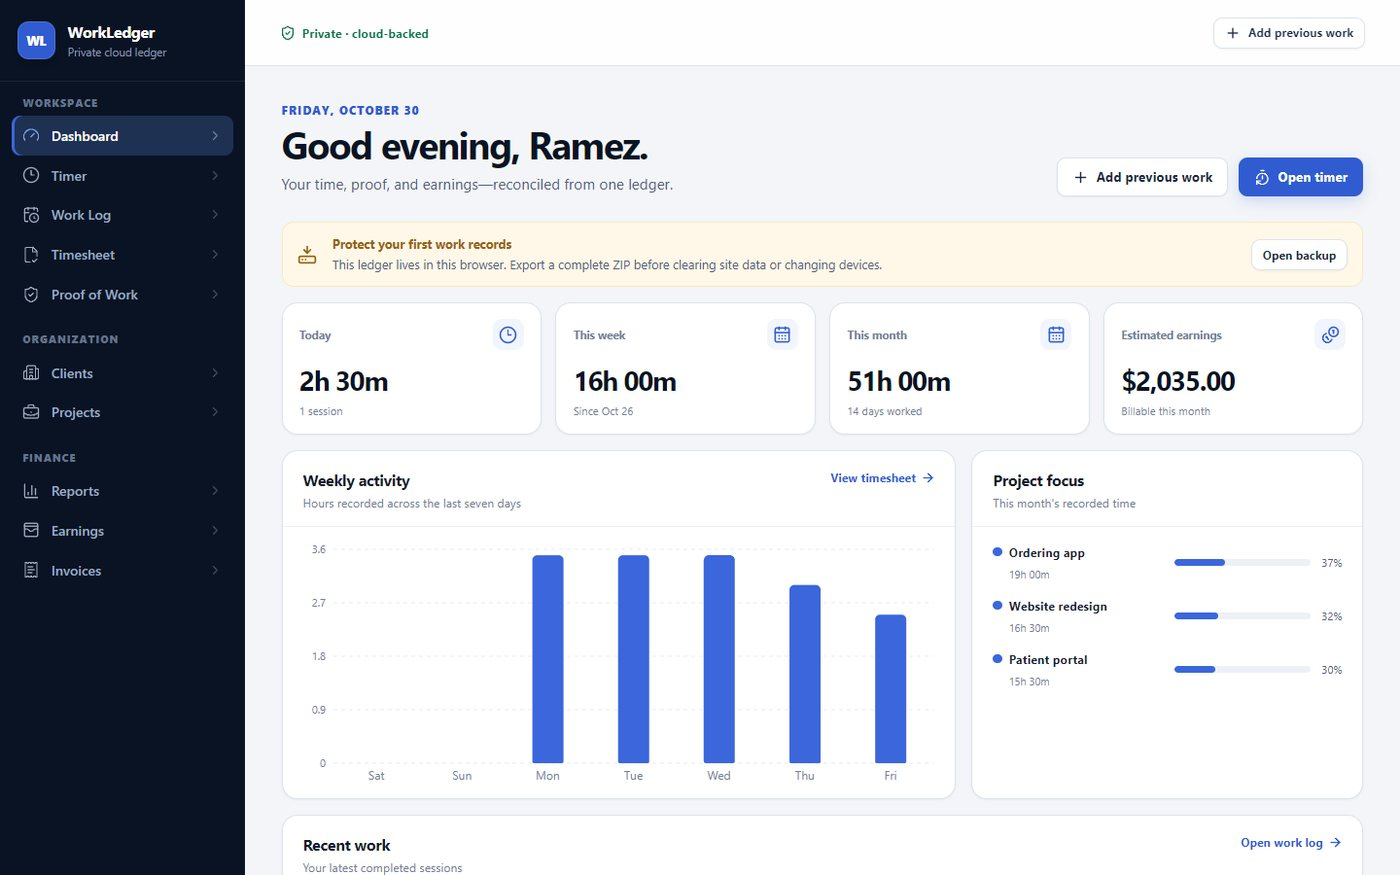
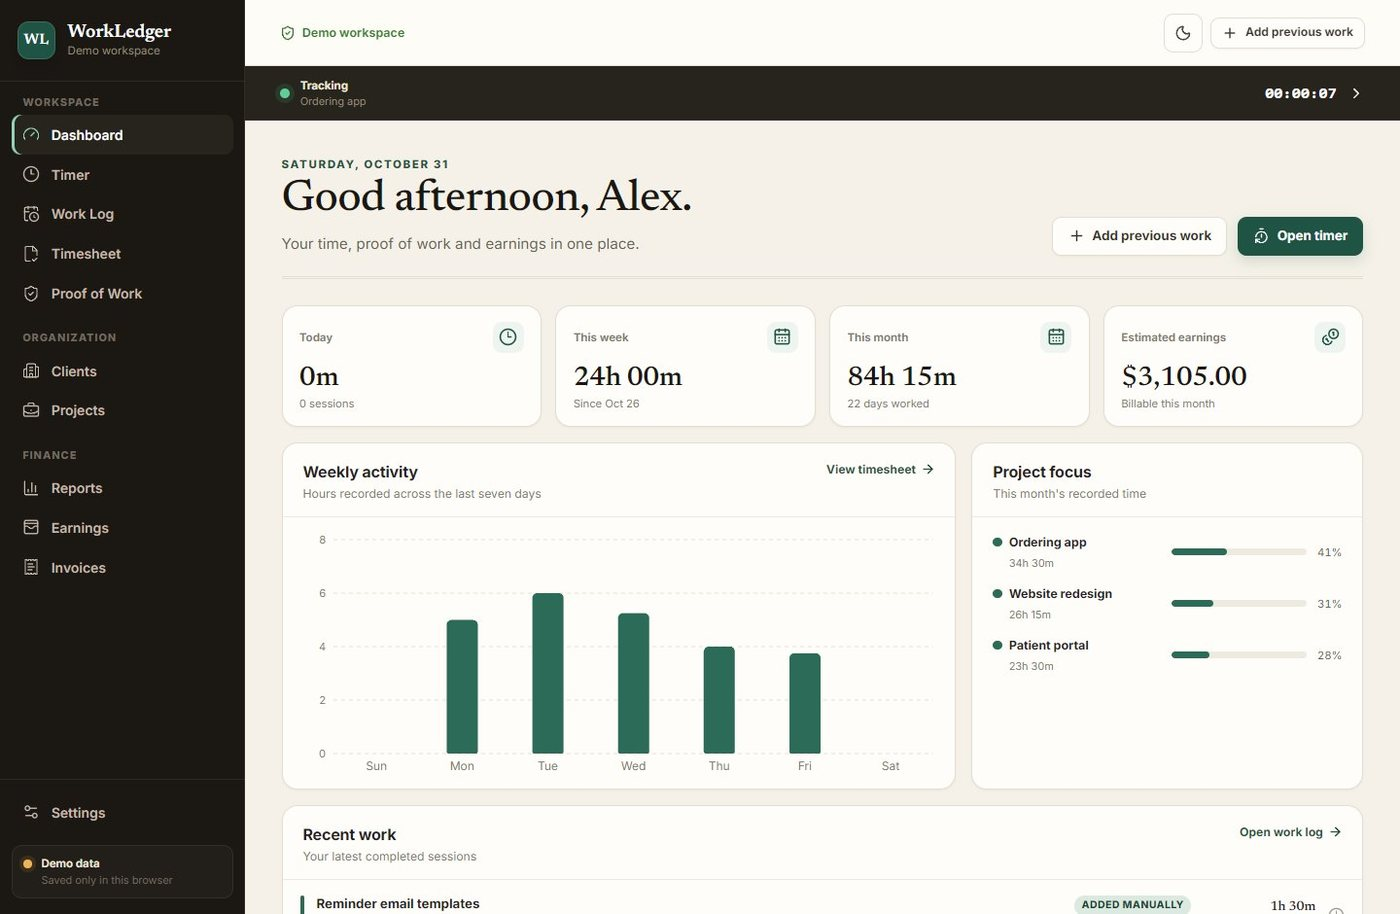
Show the redesigned WorkLedger and link its live demo

diff --git a/case-workledger.html b/case-workledger.html
@@ -101,7 +101,7 @@
       <div class="menu-side">
         <div class="menu-preview" aria-hidden="true" data-menu-preview>
           <div class="preview preview-photo" data-preview-pane="home"><img src="assets/portrait-cutout.png" alt="" width="460" height="460" loading="lazy"></div>
-          <div class="preview preview-shot" data-preview-pane="work"><img src="assets/work/workledger-full.jpg" alt="" width="900" height="1935" loading="lazy"></div>
+          <div class="preview preview-shot" data-preview-pane="work"><img src="assets/work/workledger-full.jpg" alt="" width="900" height="832" loading="lazy"></div>
           <div class="preview preview-name" data-preview-pane="about"><span lang="ar">رامز</span></div>
           <div class="preview preview-clock" data-preview-pane="contact"><span data-preview-time>Cairo</span><small data-i18n="menu.city">Egypt</small></div>
         </div>
@@ -153,6 +153,7 @@
           <div><dt data-i18n="cs.role">Role</dt><dd data-i18n="wl.role">Product and development</dd></div>
           <div><dt data-i18n="cs.year">Year</dt><dd>2026</dd></div>
           <div><dt data-i18n="cs.stack">Stack</dt><dd>React, TypeScript, Vite, Cloudflare D1, R2</dd></div>
+          <div><dt data-i18n="cs.demo">Demo</dt><dd><a class="text-link" href="https://ramezgamel01.github.io/workledger/" data-i18n="cs.demo.link">Try it live</a></dd></div>
           <div><dt data-i18n="cs.code">Code</dt><dd><a class="text-link" href="https://github.com/ramezGamel01/workledger">GitHub</a></dd></div>
         </dl>
       </div>
@@ -161,7 +162,7 @@
     <section class="case-cover-wrap">
       <div class="container">
         <figure class="case-cover" data-reveal>
-          <img src="assets/case/workledger-dashboard.jpg" alt="WorkLedger dashboard with hours for today, this week and this month, estimated earnings, a weekly chart and recent work" data-i18n-attr="alt:wl.cover.alt" width="1400" height="875">
+          <img src="assets/case/workledger-dashboard.jpg" alt="WorkLedger dashboard with hours for today, this week and this month, estimated earnings, a weekly chart and recent work" data-i18n-attr="alt:wl.cover.alt" width="1400" height="914">
         </figure>
       </div>
     </section>
@@ -235,15 +236,15 @@
           <section class="case-section" id="screens">
             <h2 data-i18n="cs.h.screens">Screens</h2>
             <figure class="case-shot" data-reveal>
-              <img src="assets/case/workledger-earnings.jpg" alt="Earnings page with a trend chart and totals per project" data-i18n-attr="alt:wl.shot.1.alt" width="1400" height="1159" loading="lazy">
-              <figcaption data-i18n="wl.shot.1">Earnings reconcile per project, down to the sessions behind each total.</figcaption>
+              <img src="assets/case/workledger-earnings.jpg" alt="Earnings page with a bar chart of daily earnings and totals per project" data-i18n-attr="alt:wl.shot.1.alt" width="1400" height="914" loading="lazy">
+              <figcaption data-i18n="wl.shot.1">Earnings per day and per project, compared with the previous period.</figcaption>
             </figure>
             <figure class="case-shot" data-reveal>
-              <img src="assets/case/workledger-timesheet.jpg" alt="Timesheet listing sessions by date with their project, duration and earnings" data-i18n-attr="alt:wl.shot.2.alt" width="1400" height="875" loading="lazy">
+              <img src="assets/case/workledger-timesheet.jpg" alt="Timesheet listing sessions by date with their project, duration and earnings" data-i18n-attr="alt:wl.shot.2.alt" width="1400" height="914" loading="lazy">
               <figcaption data-i18n="wl.shot.2">The timesheet filters by date and project, with totals for the range.</figcaption>
             </figure>
             <figure class="case-shot" data-reveal>
-              <img src="assets/case/workledger-invoices.jpg" alt="Invoices page with an issued, locked invoice" data-i18n-attr="alt:wl.shot.3.alt" width="1400" height="544" loading="lazy">
+              <img src="assets/case/workledger-invoices.jpg" alt="Invoices page with an issued, locked invoice" data-i18n-attr="alt:wl.shot.3.alt" width="1400" height="583" loading="lazy">
               <figcaption data-i18n="wl.shot.3">An issued invoice is locked. Its PDF can be regenerated at any time.</figcaption>
             </figure>
             <p class="case-note" data-i18n="cs.sample">Screens show sample data.</p>

diff --git a/i18n.js b/i18n.js
@@ -98,6 +98,7 @@ window.I18N = {
     "copied": "تم النسخ",
     "copy.fail": "اضغط Ctrl+C",
     "card.live": "الموقع المباشر",
+    "card.demo": "تجربة مباشرة",
     "card.code": "الكود المصدري",
 
     /* Home */
@@ -293,6 +294,8 @@ window.I18N = {
     "cs.year": "السنة",
     "cs.stack": "التقنيات",
     "cs.code": "الشيفرة",
+    "cs.demo": "تجربة",
+    "cs.demo.link": "جرّبه مباشرة",
     "cs.langs": "اللغات",
     "cs.tools": "الأدوات",
     "cs.h.problem": "المشكلة",
@@ -333,8 +336,8 @@ window.I18N = {
     "wl.dec.4.d": "الجلسة المتتبَّعة قائمة من مقاطع بداية وتوقف، لا عدّاد يعمل باستمرار. الإيقاف المؤقت دقيق، وإغلاق التبويب لا يضيّع الوقت.",
     "wl.dec.5.t": "محلي أولًا، ثم السحابة",
     "wl.dec.5.d": "احتفظ الإصدار الأول بكل شيء في المتصفح مع نسخ احتياطية صريحة. وعندما احتجت إلى السجل نفسه على كل أجهزتي، أضاف الإصدار السحابي D1 وR2، وبقيت IndexedDB شبكة أمان عند انقطاع الاتصال.",
-    "wl.shot.1": "تتطابق الأرباح لكل مشروع، وصولًا إلى الجلسات التي تقف خلف كل إجمالي.",
-    "wl.shot.1.alt": "صفحة الأرباح مع مخطط للاتجاه وإجماليات لكل مشروع",
+    "wl.shot.1": "الأرباح لكل يوم ولكل مشروع، مع مقارنة بالفترة السابقة.",
+    "wl.shot.1.alt": "صفحة الأرباح مع مخطط أعمدة للأرباح اليومية وإجماليات لكل مشروع",
     "wl.shot.2": "يُصفّى جدول الساعات حسب التاريخ والمشروع، مع إجماليات الفترة.",
     "wl.shot.2.alt": "جدول الساعات يعرض الجلسات حسب التاريخ مع المشروع والمدة والأرباح",
     "wl.shot.3": "الفاتورة الصادرة مقفلة، ويمكن إعادة إنشاء ملف PDF الخاص بها في أي وقت.",

diff --git a/work.html b/work.html
@@ -99,7 +99,7 @@
       <div class="menu-side">
         <div class="menu-preview" aria-hidden="true" data-menu-preview>
           <div class="preview preview-photo" data-preview-pane="home"><img src="assets/portrait-cutout.png" alt="" width="460" height="460" loading="lazy"></div>
-          <div class="preview preview-shot" data-preview-pane="work"><img src="assets/work/workledger-full.jpg" alt="" width="900" height="1935" loading="lazy"></div>
+          <div class="preview preview-shot" data-preview-pane="work"><img src="assets/work/workledger-full.jpg" alt="" width="900" height="832" loading="lazy"></div>
           <div class="preview preview-name" data-preview-pane="about"><span lang="ar">رامز</span></div>
           <div class="preview preview-clock" data-preview-pane="contact"><span data-preview-time>Cairo</span><small data-i18n="menu.city">Egypt</small></div>
         </div>
@@ -170,12 +170,13 @@
                 <li data-i18n="ledger.f4.t">Sync and backup</li>
               </ul>
               <p class="card-links">
+                <a href="https://ramezgamel01.github.io/workledger/"><span data-i18n="card.demo">Live demo</span><svg class="i-arrow" aria-hidden="true"><use href="#i-arrow"/></svg></a>
                 <a href="case-workledger.html"><span data-i18n="card.case">Case study</span><svg class="i-arrow" aria-hidden="true"><use href="#i-arrow"/></svg></a>
                 <a href="https://github.com/ramezGamel01/workledger"><span data-i18n="card.code">Source code</span><svg class="i-arrow" aria-hidden="true"><use href="#i-arrow"/></svg></a>
               </p>
             </div>
             <a class="card-shot is-long" href="case-workledger.html" tabindex="-1" aria-hidden="true" style="--scroll-dur:7s">
-              <img src="assets/work/workledger-full.jpg" alt="" width="900" height="1935" loading="lazy">
+              <img src="assets/work/workledger-full.jpg" alt="" width="900" height="832" loading="lazy">
             </a>
           </article>
 

diff --git a/404.html b/404.html
@@ -106,7 +106,7 @@
       <div class="menu-side">
         <div class="menu-preview" aria-hidden="true" data-menu-preview>
           <div class="preview preview-photo" data-preview-pane="home"><img src="assets/portrait-cutout.png" alt="" width="460" height="460" loading="lazy"></div>
-          <div class="preview preview-shot" data-preview-pane="work"><img src="assets/work/workledger-full.jpg" alt="" width="900" height="1935" loading="lazy"></div>
+          <div class="preview preview-shot" data-preview-pane="work"><img src="assets/work/workledger-full.jpg" alt="" width="900" height="832" loading="lazy"></div>
           <div class="preview preview-name" data-preview-pane="about"><span lang="ar">رامز</span></div>
           <div class="preview preview-clock" data-preview-pane="contact"><span data-preview-time>Cairo</span><small data-i18n="menu.city">Egypt</small></div>
         </div>

diff --git a/about.html b/about.html
@@ -101,7 +101,7 @@
       <div class="menu-side">
         <div class="menu-preview" aria-hidden="true" data-menu-preview>
           <div class="preview preview-photo" data-preview-pane="home"><img src="assets/portrait-cutout.png" alt="" width="460" height="460" loading="lazy"></div>
-          <div class="preview preview-shot" data-preview-pane="work"><img src="assets/work/workledger-full.jpg" alt="" width="900" height="1935" loading="lazy"></div>
+          <div class="preview preview-shot" data-preview-pane="work"><img src="assets/work/workledger-full.jpg" alt="" width="900" height="832" loading="lazy"></div>
           <div class="preview preview-name" data-preview-pane="about"><span lang="ar">رامز</span></div>
           <div class="preview preview-clock" data-preview-pane="contact"><span data-preview-time>Cairo</span><small data-i18n="menu.city">Egypt</small></div>
         </div>

diff --git a/case-fuzzing.html b/case-fuzzing.html
@@ -101,7 +101,7 @@
       <div class="menu-side">
         <div class="menu-preview" aria-hidden="true" data-menu-preview>
           <div class="preview preview-photo" data-preview-pane="home"><img src="assets/portrait-cutout.png" alt="" width="460" height="460" loading="lazy"></div>
-          <div class="preview preview-shot" data-preview-pane="work"><img src="assets/work/workledger-full.jpg" alt="" width="900" height="1935" loading="lazy"></div>
+          <div class="preview preview-shot" data-preview-pane="work"><img src="assets/work/workledger-full.jpg" alt="" width="900" height="832" loading="lazy"></div>
           <div class="preview preview-name" data-preview-pane="about"><span lang="ar">رامز</span></div>
           <div class="preview preview-clock" data-preview-pane="contact"><span data-preview-time>Cairo</span><small data-i18n="menu.city">Egypt</small></div>
         </div>

diff --git a/index.html b/index.html
@@ -114,7 +114,7 @@
       <div class="menu-side">
         <div class="menu-preview" aria-hidden="true" data-menu-preview>
           <div class="preview preview-photo" data-preview-pane="home"><img src="assets/portrait-cutout.png" alt="" width="460" height="460" loading="lazy"></div>
-          <div class="preview preview-shot" data-preview-pane="work"><img src="assets/work/workledger-full.jpg" alt="" width="900" height="1935" loading="lazy"></div>
+          <div class="preview preview-shot" data-preview-pane="work"><img src="assets/work/workledger-full.jpg" alt="" width="900" height="832" loading="lazy"></div>
           <div class="preview preview-name" data-preview-pane="about"><span lang="ar">رامز</span></div>
           <div class="preview preview-clock" data-preview-pane="contact"><span data-preview-time>Cairo</span><small data-i18n="menu.city">Egypt</small></div>
         </div>

diff --git a/contact.html b/contact.html
@@ -99,7 +99,7 @@
       <div class="menu-side">
         <div class="menu-preview" aria-hidden="true" data-menu-preview>
           <div class="preview preview-photo" data-preview-pane="home"><img src="assets/portrait-cutout.png" alt="" width="460" height="460" loading="lazy"></div>
-          <div class="preview preview-shot" data-preview-pane="work"><img src="assets/work/workledger-full.jpg" alt="" width="900" height="1935" loading="lazy"></div>
+          <div class="preview preview-shot" data-preview-pane="work"><img src="assets/work/workledger-full.jpg" alt="" width="900" height="832" loading="lazy"></div>
           <div class="preview preview-name" data-preview-pane="about"><span lang="ar">رامز</span></div>
           <div class="preview preview-clock" data-preview-pane="contact"><span data-preview-time>Cairo</span><small data-i18n="menu.city">Egypt</small></div>
         </div>
